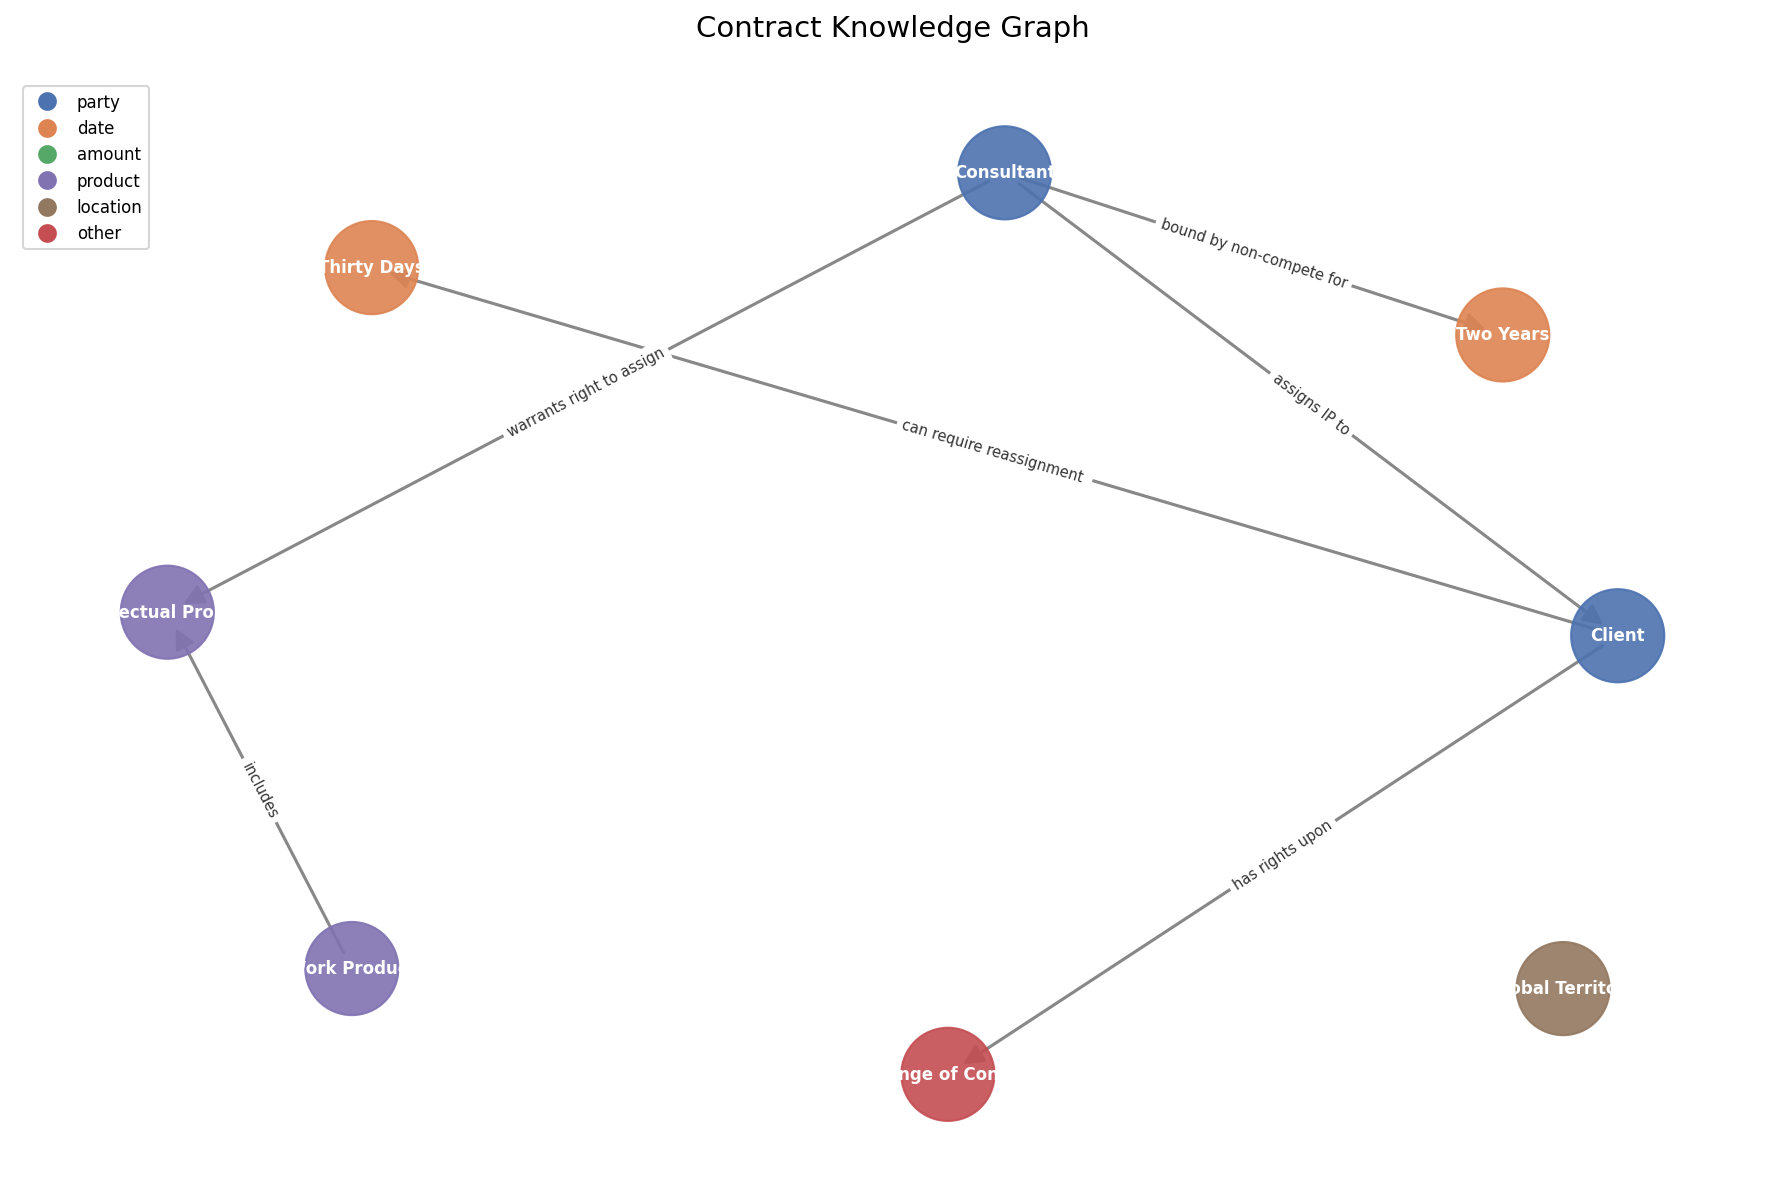
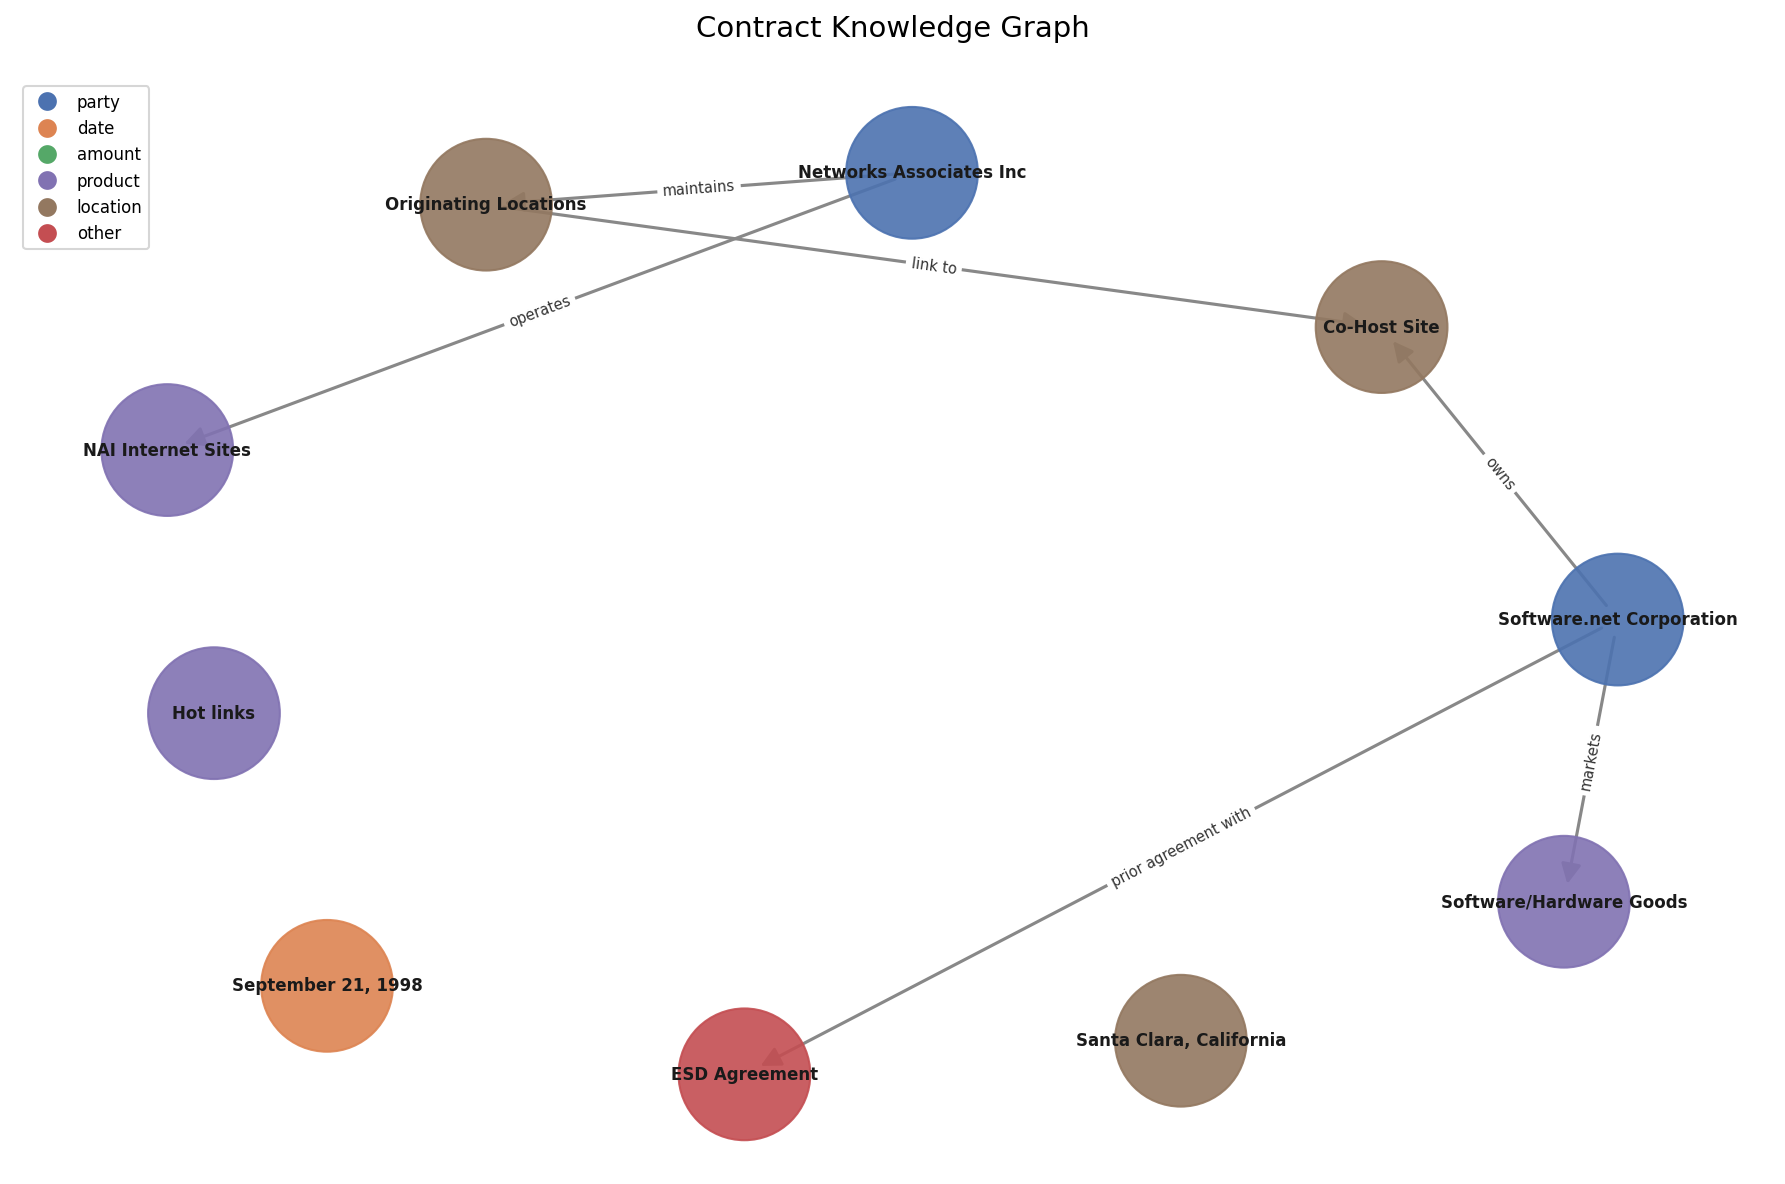
fixed knowledge graph output

diff --git a/agents/knowledge_graph_agent.py b/agents/knowledge_graph_agent.py
@@ -111,8 +111,8 @@ def build_and_save_graph(entities: list, relationships: list) -> str:
         for n in G.nodes
     ]
 
-    nx.draw_networkx_nodes(G, pos, node_color=node_colors, node_size=2000, alpha=0.9)
-    nx.draw_networkx_labels(G, pos, font_size=8, font_color="white", font_weight="bold")
+    nx.draw_networkx_nodes(G, pos, node_color=node_colors, node_size=4000, alpha=0.9)
+    nx.draw_networkx_labels(G, pos, font_size=8, font_color="#1a1a1a", font_weight="bold")
     nx.draw_networkx_edges(G, pos, arrows=True, arrowsize=20, edge_color="#888888", width=1.5)
     edge_labels = {(u, v): d["label"][:25] for u, v, d in G.edges(data=True)}
     nx.draw_networkx_edge_labels(G, pos, edge_labels, font_size=7, font_color="#333333")
